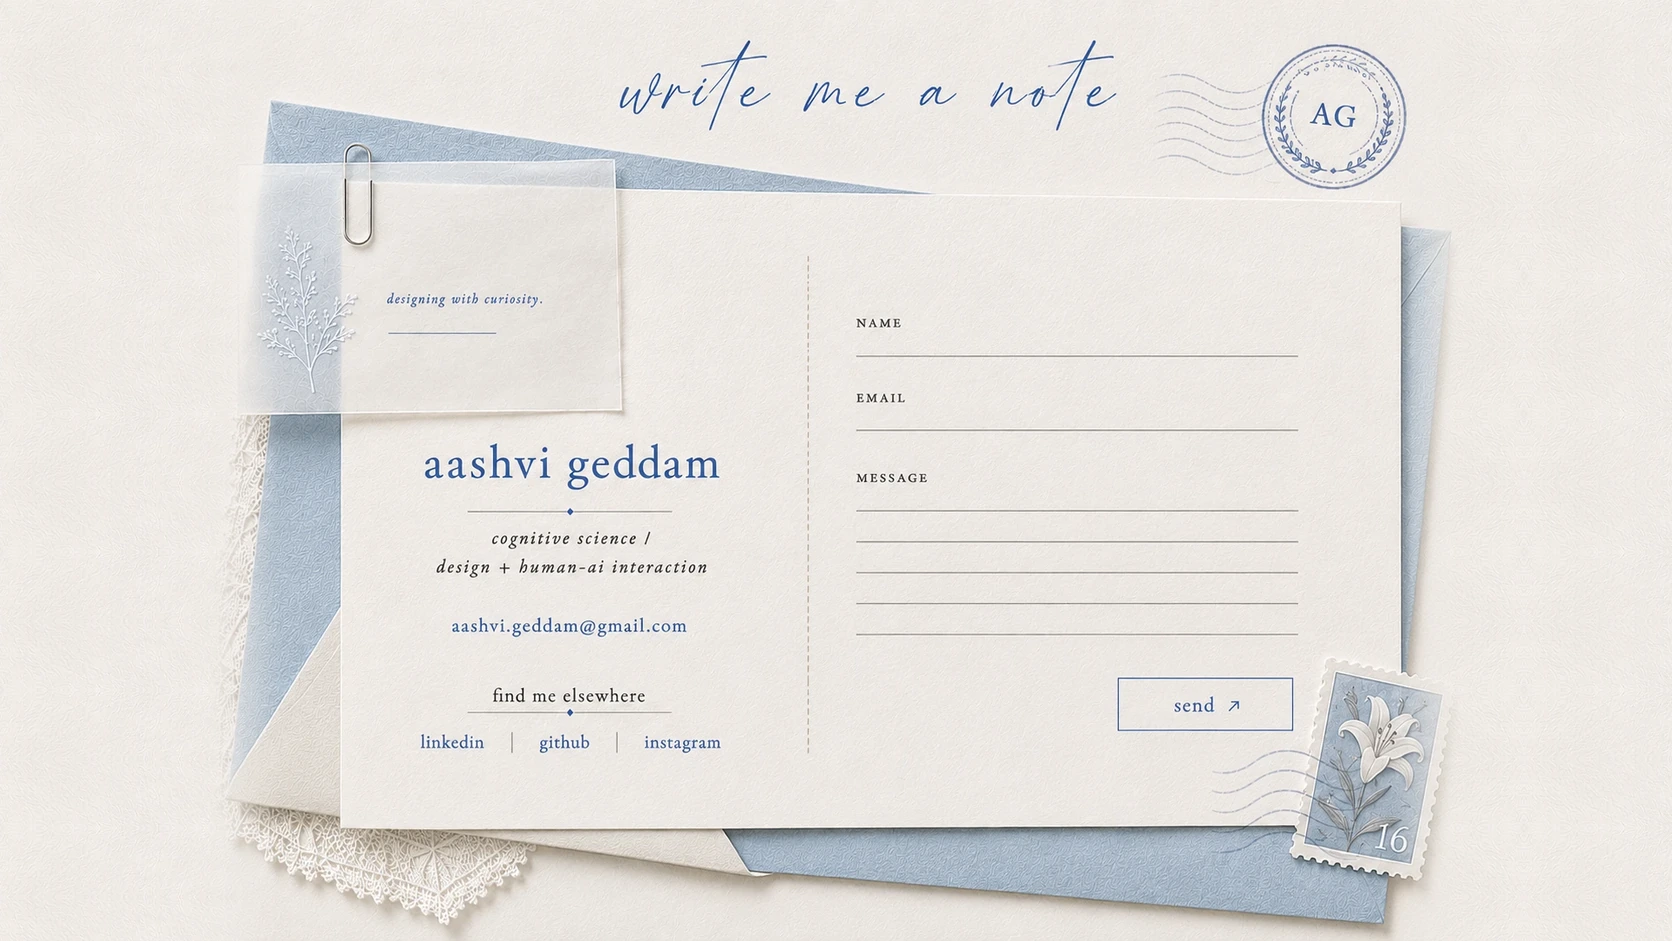
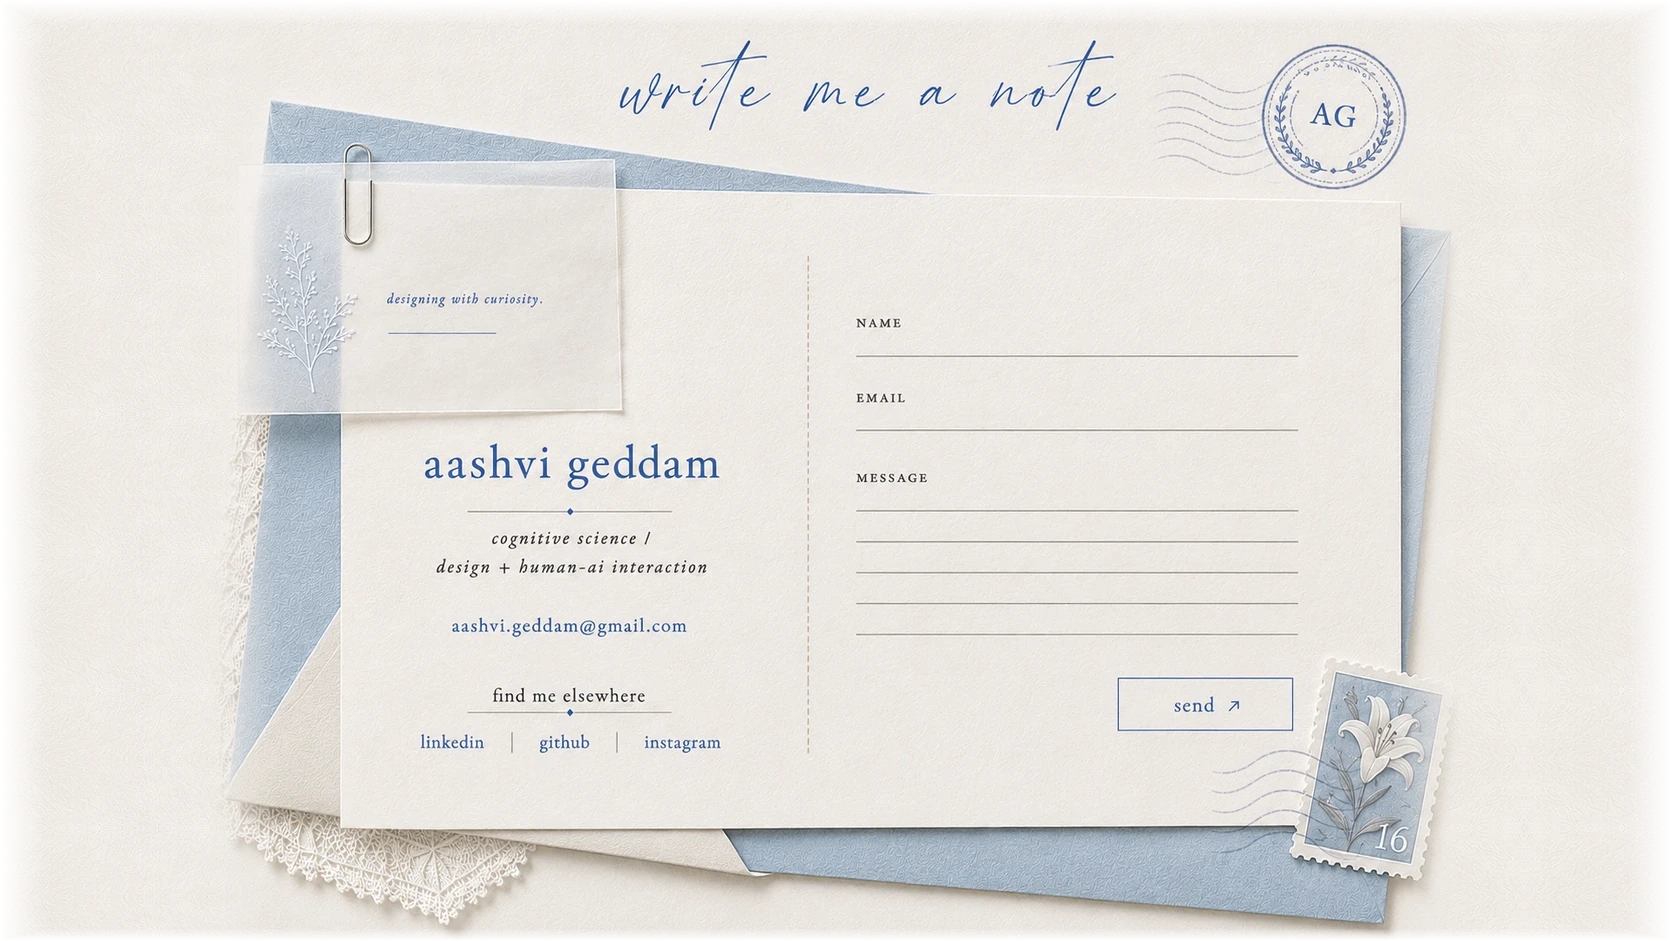
Let's Chat: sit the postcard a touch smaller on the page
The contact canvas now scales to 88% of the other pages' fit, with
the page's own cream showing around the scene. The backdrop's outer
margins fade to transparent (sized to stay off the artwork) so the
smaller canvas melts into the page instead of printing a rectangle.

Claude-Session: https://claude.ai/code/session_01HwHnB6ZvdvjAvLg4jAqUHh

diff --git a/index.html b/index.html
@@ -897,7 +897,9 @@ function fit(){
   const a = Math.min(innerWidth / AW, innerHeight / AH);
   ac.style.transform = "translate(-50%,-50%) scale(" + a + ")";
   if (wc) wc.style.transform = "translate(-50%,-50%) scale(" + a + ")";
-  if (cc) cc.style.transform = "translate(-50%,-50%) scale(" + a + ")";
+  /* the postcard sits a touch smaller than the other pages' canvases,
+     with the page's own cream showing around it */
+  if (cc) cc.style.transform = "translate(-50%,-50%) scale(" + (a * 0.88) + ")";
 }
 addEventListener("resize", fit); fit();
 
